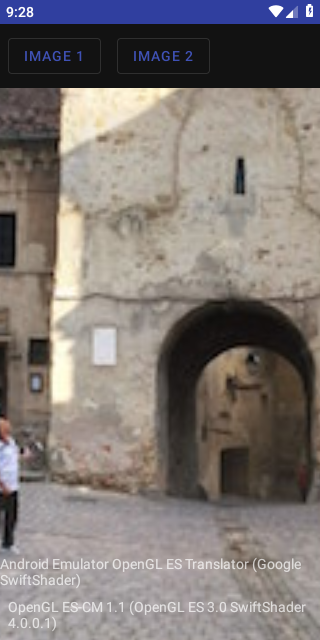
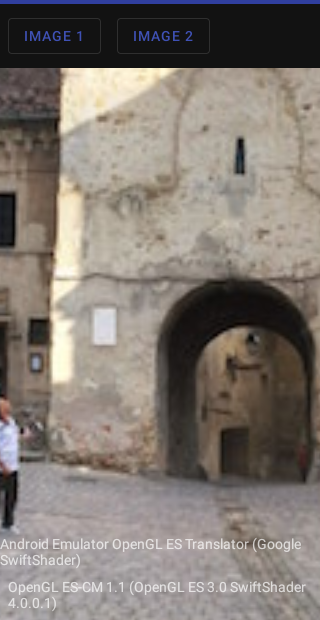
Crop

diff --git a/app/src/androidTest/java/com/panoramagl/sample/SmokeTest.kt b/app/src/androidTest/java/com/panoramagl/sample/SmokeTest.kt
@@ -1,5 +1,6 @@
 package com.panoramagl.sample
 
+import android.graphics.Bitmap
 import androidx.test.core.app.takeScreenshot
 import androidx.test.core.graphics.writeToTestStorage
 import androidx.test.espresso.Espresso.onView
@@ -25,11 +26,11 @@ class SmokeTest {
     @Test
     fun basicSmokeTest() {
         Thread.sleep(100)
-        takeScreenshot().writeToTestStorage("${javaClass.simpleName}_${nameRule.methodName}-start")
+        takeScreenshot().crop().writeToTestStorage("${javaClass.simpleName}_${nameRule.methodName}-start")
         onView(withId(R.id.button_1)).perform(ViewActions.click())
-        takeScreenshot().writeToTestStorage("${javaClass.simpleName}_${nameRule.methodName}-button1")
+        takeScreenshot().crop().writeToTestStorage("${javaClass.simpleName}_${nameRule.methodName}-button1")
         onView(withId(R.id.button_2)).perform(ViewActions.click())
-        takeScreenshot().writeToTestStorage("${javaClass.simpleName}_${nameRule.methodName}-button2")
+        takeScreenshot().crop().writeToTestStorage("${javaClass.simpleName}_${nameRule.methodName}-button2")
     }
 
     //    @Test
@@ -51,4 +52,9 @@ class SmokeTest {
 //        takeScreenshot().writeToTestStorage("${javaClass.simpleName}_${nameRule.methodName}-end")
 //    }
 
+    fun Bitmap.crop() = Bitmap.createBitmap(this, 0, NOTIFY_AREA_HEIGHT, this.width, this.height - NOTIFY_AREA_HEIGHT)
+
+    companion object {
+        const val NOTIFY_AREA_HEIGHT = 20 // TODO ask system about this value
+    }
 }
